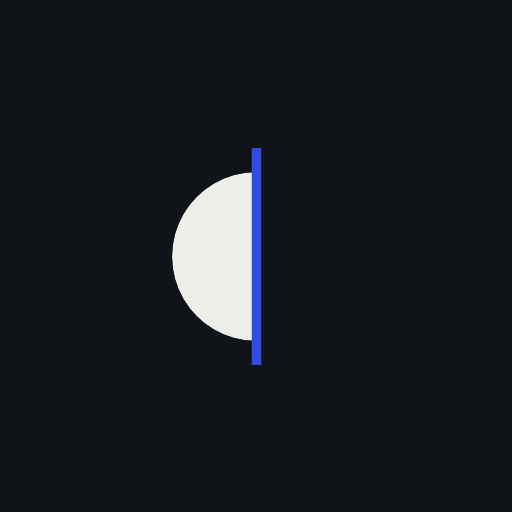
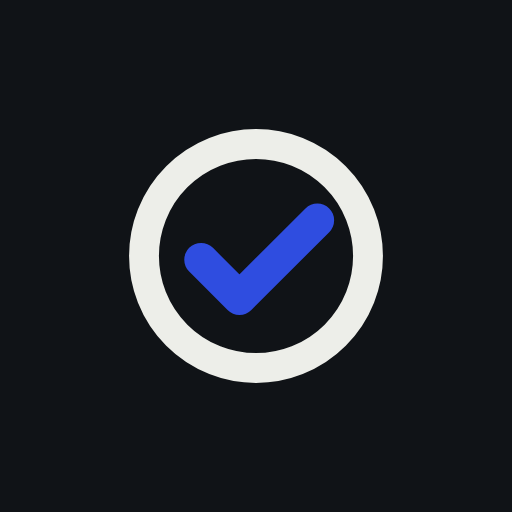
Redesign the Otto mark — an O with a checkmark, everywhere it appears
The old mark (a half-moon cut by a vertical "consent line," meant to read
as "work done" vs "work waiting on you") was too abstract to actually read
at the sizes it's mostly seen at — a 16-22px favicon/nav icon just showed a
blank-ish shape, not a mark. New design: a ring (the O in Otto) with a
checkmark inside it — reads as both the app's initial and "guided task,
done" in one mark, and stays legible all the way down to a 16px browser
tab. Same palette as before (ink ring, fixed cobalt #2F4DE0 accent for the
checkmark — the one color that never changes with theme).

Updated everywhere the mark appears, generated consistently from one
source (an HTML/SVG template rendered via headless Chrome at each exact
target size, not hand-edited per file):
- client/App.tsx's Logo() component (used in the nav, landing page, and
  onboarding — single source, no other component duplicates it)
- public/favicon.svg
- public/apple-touch-icon.png (180×180), icon-192.png, icon-512.png,
  icon-512-maskable.png (full-bleed background + safe-zone padding per the
  Android maskable-icon spec), og-image.png (1200×630, link previews)
- extension/icons/ (16/32/48/128px — the Chrome toolbar icon and
  chrome://extensions listing), manifest version bumped to 1.3.0 and the
  zip repackaged so the Settings download matches

Changed region(s): [[0.25, 0.25, 0.75, 0.75]]

diff --git a/client/App.tsx b/client/App.tsx
@@ -123,16 +123,18 @@ const EXECUTION_ENABLED = false;
 
 
 
-/** The Otto mark — a ring cut by the consent line. The LEFT half is solid (work Otto already did, done); the
- *  RIGHT half is an open stroke (work still waiting on you); the vertical cobalt line between them is the
- *  threshold — on this side Otto acted, on that side it stopped and left the decision to you. The ring
- *  inherits currentColor (ink, inverts in dark mode); the line is always cobalt. */
+/** The Otto mark — an "O" (for Otto) with a checkmark inside it, not a separate badge bolted onto a
+ *  generic shape: the letter and the "done" meaning read as ONE mark, not two ideas glued together. The
+ *  ring inherits currentColor (ink, inverts in dark mode); the checkmark is always cobalt, the one fixed
+ *  accent color across the whole app — it's the one thing that never changes regardless of theme, same as
+ *  every other accent-blue use elsewhere. Deliberately legible at favicon size: a checkmark stays readable
+ *  at 16px in a way finer geometric detail doesn't, which the previous half-moon-cut-by-a-line mark wasn't
+ *  reliably (it read as a blank shape at tab-icon scale, per direct feedback). */
 function Logo({ size = 22 }: { size?: number }) {
   return (
     <svg className="logo" width={size} height={size} viewBox="0 0 48 48" fill="none" aria-hidden="true">
-      <path d="M24 4 A20 20 0 0 0 24 44 Z" fill="currentColor" />
-      <path d="M24 6 A18 18 0 0 1 24 42" stroke="currentColor" strokeWidth="4" fill="none" />
-      <rect x="23" y="0" width="2" height="48" fill="#2F4DE0" />
+      <circle cx="24" cy="24" r="18" stroke="currentColor" strokeWidth="4" fill="none" />
+      <path d="M15 25 L21 31 L33 17" stroke="#2F4DE0" strokeWidth="4.5" strokeLinecap="round" strokeLinejoin="round" fill="none" />
     </svg>
   );
 }
